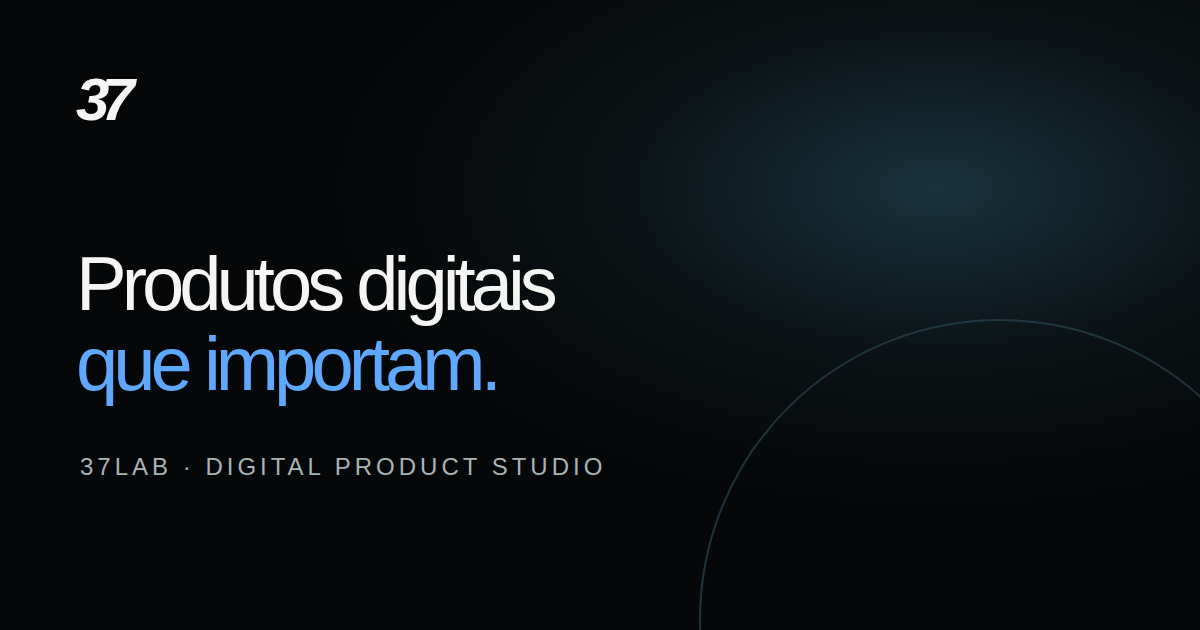
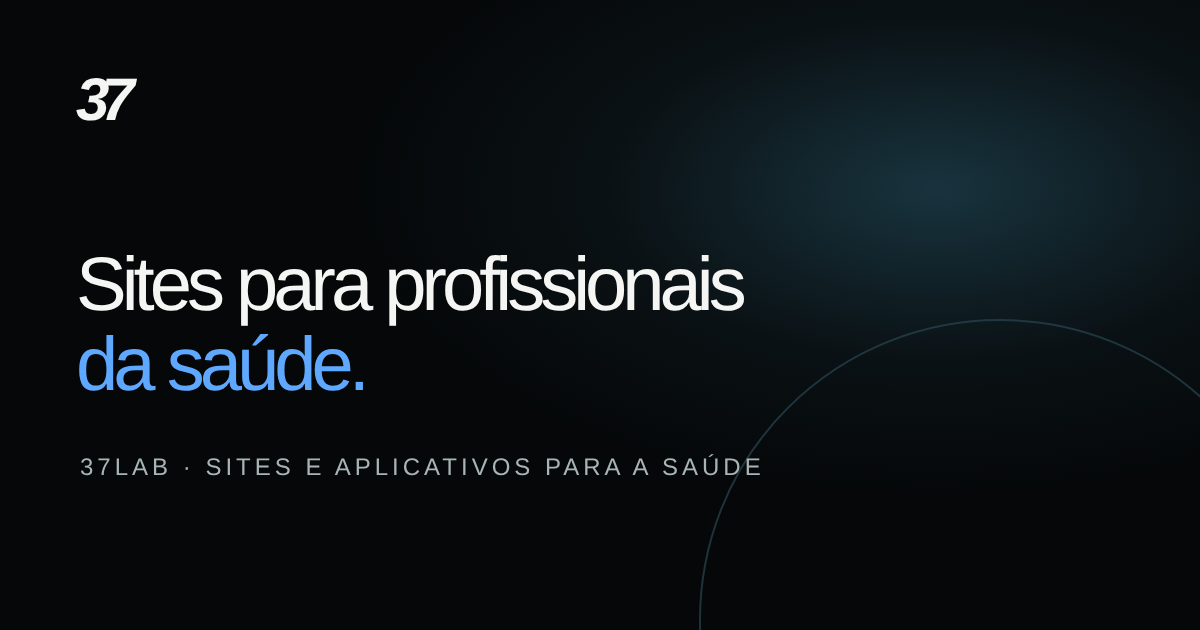
feat: share card and meta tags focused on health-care websites
WhatsApp shows this card when the outreach message links 37lab.com.br.
It said "Digital Product Studio / aplicativos e plataformas", which
contradicted "criamos sites para profissionais da saúde" in the message.

Claude-Session: https://claude.ai/code/session_01PU7xmzcMCubajYmtKucvoV

Changed region(s): [[0.0617, 0.3921, 0.6167, 0.5127], [0.0617, 0.5429, 0.4317, 0.6333], [0.0617, 0.7238, 0.6475, 0.754]]

diff --git a/public/index.html b/public/index.html
@@ -3,11 +3,11 @@
 <head>
   <meta charset="UTF-8" />
   <meta name="viewport" content="width=device-width, initial-scale=1.0" />
-  <meta name="description" content="37LAB transforma ideias em aplicativos, plataformas e soluções digitais com estratégia, design e tecnologia." />
+  <meta name="description" content="A 37LAB cria sites para médicos, dentistas, psicólogos, fisioterapeutas, nutricionistas e clínicas. Cuidamos do design, dos textos, da hospedagem e da publicação." />
   <meta name="theme-color" content="#050708" />
   <meta property="og:type" content="website" />
-  <meta property="og:title" content="37LAB — Produtos digitais que resolvem problemas reais" />
-  <meta property="og:description" content="37LAB transforma ideias em aplicativos, plataformas e soluções digitais com estratégia, design e tecnologia." />
+  <meta property="og:title" content="37LAB — Sites para profissionais da saúde" />
+  <meta property="og:description" content="A 37LAB cria sites para médicos, dentistas, psicólogos, fisioterapeutas, nutricionistas e clínicas. Cuidamos do design, dos textos, da hospedagem e da publicação." />
   <meta property="og:site_name" content="37LAB" />
   <meta name="twitter:card" content="summary_large_image" />
   <link rel="canonical" href="https://37lab.com.br/" />
@@ -19,9 +19,9 @@
   <link rel="stylesheet" href="/site-fixes.css?v=20261001-logo-size" />
   <link rel="stylesheet" href="/home-real.css" />
   <meta property="og:url" content="https://37lab.com.br/" />
-  <meta property="og:image" content="https://37lab.com.br/og-image.png" />
+  <meta property="og:image" content="https://37lab.com.br/og-image.png?v=saude" />
   <script type="application/ld+json">
-    {"@context":"https://schema.org","@type":"Organization","name":"37LAB","url":"https://37lab.com.br/","description":"Estúdio digital de produtos, aplicativos e plataformas.","email":"oi@37lab.com.br","sameAs":[]}
+    {"@context":"https://schema.org","@type":"Organization","name":"37LAB","url":"https://37lab.com.br/","description":"Estúdio digital que cria sites e aplicativos para profissionais e clínicas de saúde.","email":"oi@37lab.com.br","sameAs":[]}
   </script>
   <!-- Google tag (gtag.js) -->
   <script async src="https://www.googletagmanager.com/gtag/js?id=G-6F1YK4T3TE"></script>
@@ -31,7 +31,7 @@
     gtag('js', new Date());
     gtag('config', 'G-6F1YK4T3TE');
   </script>
-  <title>37LAB — Digital Product Studio</title>
+  <title>37LAB — Sites e aplicativos para profissionais da saúde</title>
   <style>
     :root{--bg:#050708;--surface:#0c1012;--surface2:#101619;--line:rgba(255,255,255,.14);--muted:#8e979a;--white:#f5f6f3;--blue:#5fa8ff;--gold:#cba47b;--max:1240px}
     *{box-sizing:border-box}html{scroll-behavior:smooth}body{margin:0;background:var(--bg);color:var(--white);font-family:Inter,ui-sans-serif,system-ui,-apple-system,BlinkMacSystemFont,"Segoe UI",sans-serif;font-size:16px;line-height:1.45}a{color:inherit;text-decoration:none}button{font:inherit;color:inherit;background:none;border:0;cursor:pointer}.wrap{width:min(var(--max),calc(100% - 64px));margin:0 auto}.eyebrow{font-size:11px;letter-spacing:.28em;text-transform:uppercase;color:#a1abad}.arrow{font-size:18px;line-height:0;transition:transform .25s}.link:hover .arrow,.button:hover .arrow{transform:translateX(4px)}
@@ -53,7 +53,7 @@
   <meta property="og:locale" content="pt_BR">
   <meta property="og:image:width" content="1200">
   <meta property="og:image:height" content="630">
-  <meta property="og:image:alt" content="37LAB — Digital Product Studio">
+  <meta property="og:image:alt" content="37LAB — Sites para profissionais da saúde">
 </head>
 <body>
   <header><div class="wrap nav"><a class="brand" href="#top" aria-label="37LAB"><img class="brand-image" src="/logos/37lab.png" alt="37lab" width="87" height="41" style="width:clamp(76px,8vw,87px);height:auto"></a><nav class="navlinks"><a href="#projetos">Projetos</a><a href="#servicos">Serviços</a><a href="/sobre/">Sobre</a><a href="/contato/">Contato</a></nav><a class="outline" href="/contato/">Começar um projeto <span class="arrow">→</span></a><button class="menu-toggle" aria-label="Abrir menu" aria-expanded="false">☰</button></div><nav class="mobile-menu" aria-label="Menu mobile"><a href="#projetos">Projetos</a><a href="#servicos">Serviços</a><a href="/sobre/">Sobre</a><a href="/contato/">Contato</a></nav></header>
